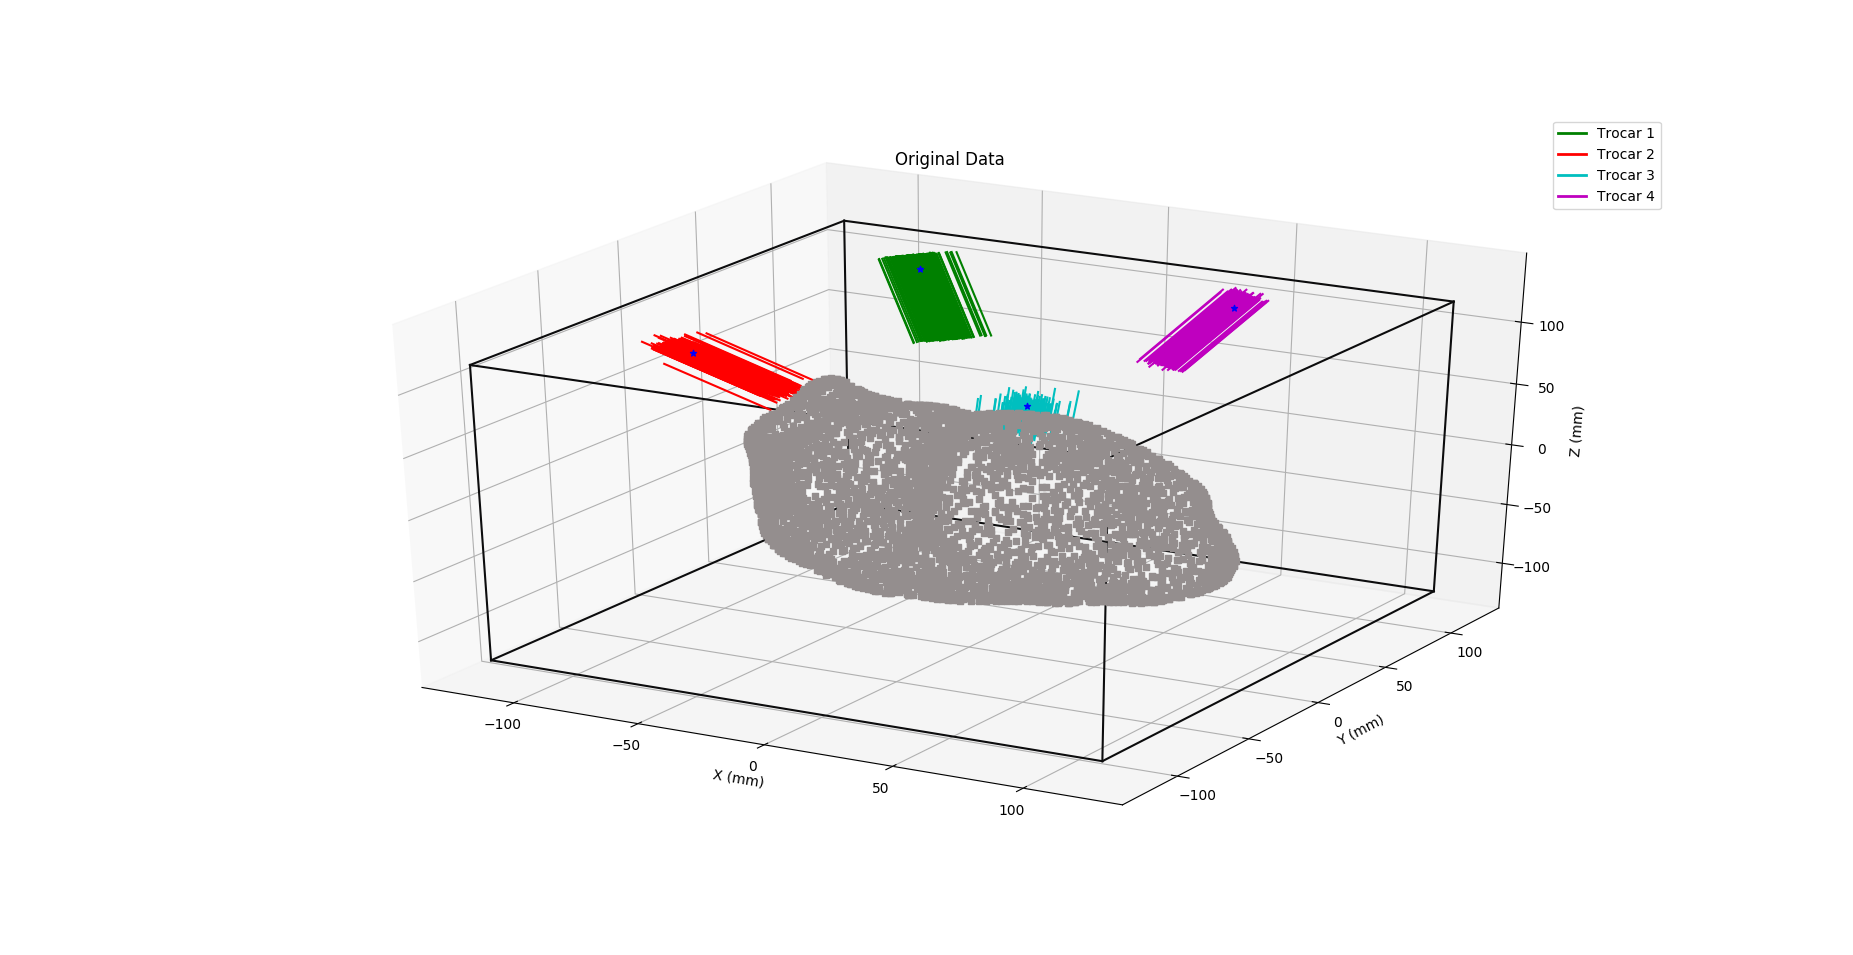
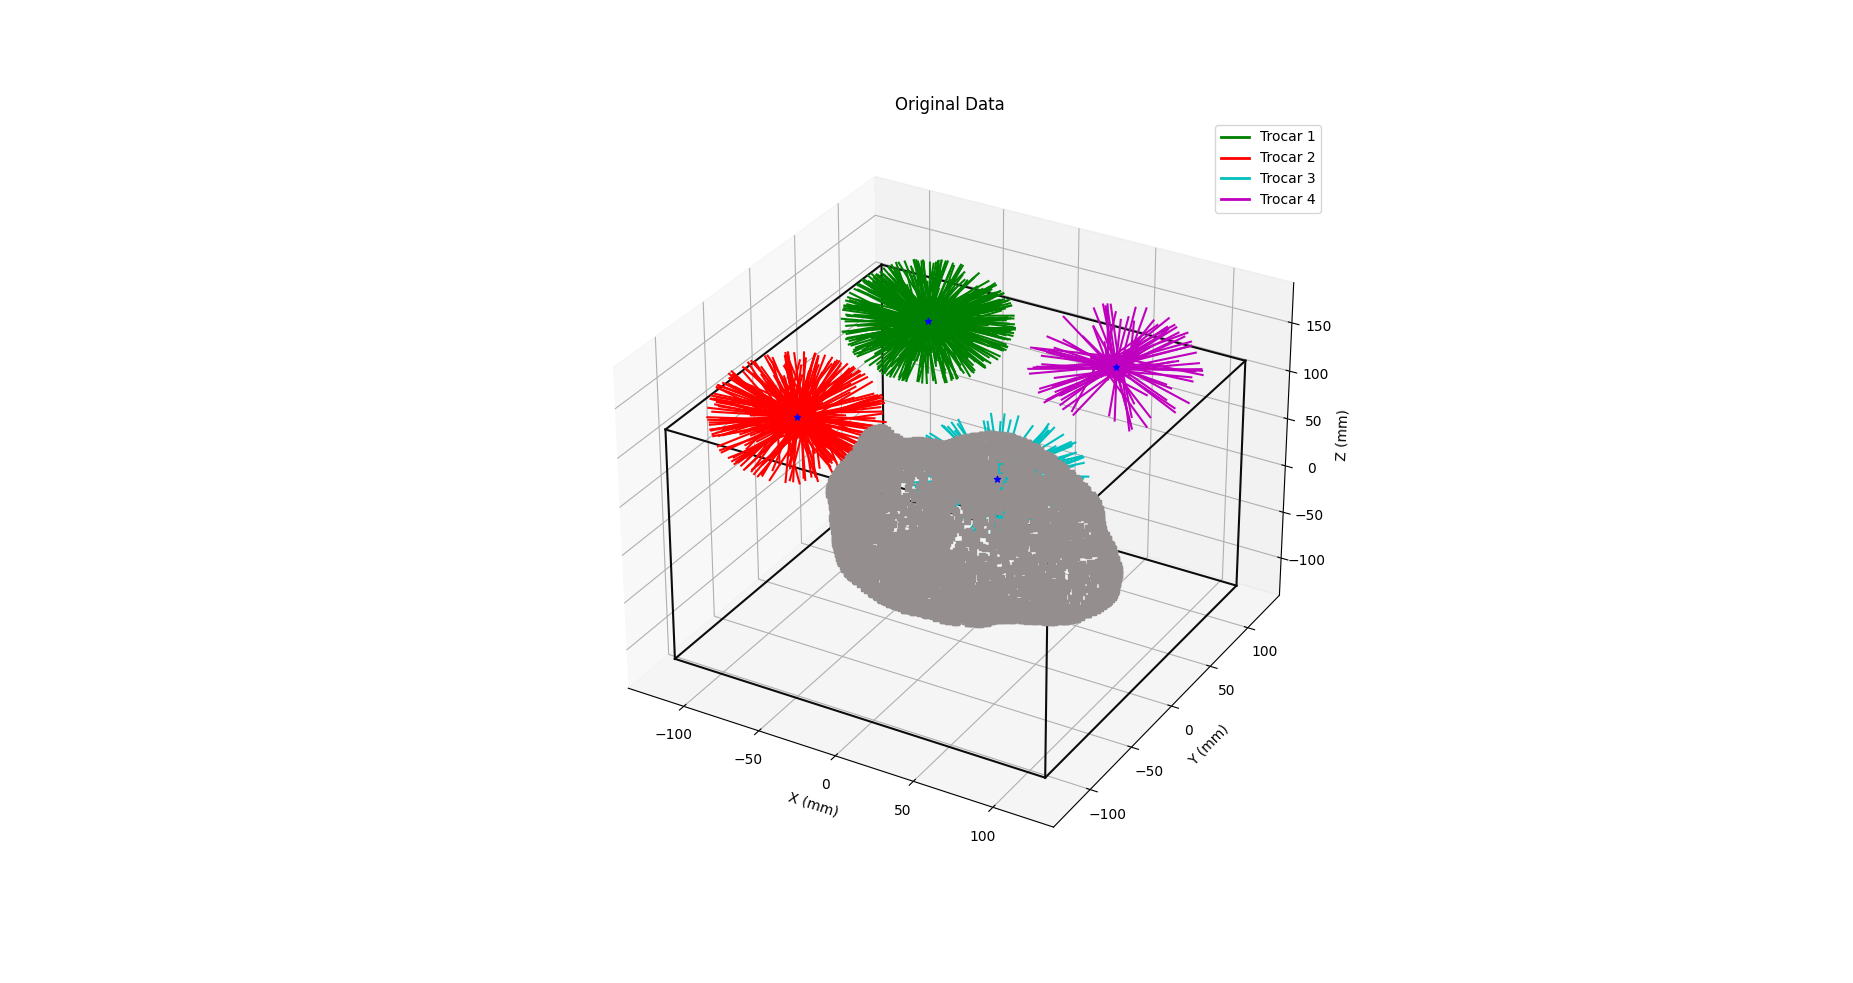
update generate data function

diff --git a/generate_data.py b/generate_data.py
@@ -32,21 +32,26 @@ def generate_data(N_lines, trocar, scale1 = 1, scale2 = 1, sigma = 5):
     Generate simulation data (data with noise follows Gaussian distribution)
     """
 
-    # Get normal vector of plane which contains all points will be generated
-    n_vect = trocar-liver
-    unit_vect = n_vect/np.linalg.norm(n_vect) #convert to unit vect
+    # Generate direction unit vector for all lines
 
+    vect_rand = np.zeros((N_lines,3),dtype=np.float32)
+    
+    for i in range(N_lines):
+
+        vect_rand[i] = random_unit_vector()
+    
     # Get direction vectors for intersection points
     u = np.zeros((N_lines,3),dtype=np.float32)    
 
-    u1 = np.array([unit_vect[1], -unit_vect[0], 0]) #an unit vector perpendicular to the normal vect
-    u2 = np.array([unit_vect[2], 0, -unit_vect[0]])
+    for i in range(N_lines):
+        u[i] = np.array([vect_rand[i,1], -vect_rand[i,0], 0])
 
-    coef = np.random.normal(0,100,(N_lines,2))
 
-    for i in range(u.shape[0]):
-        u[i] = coef[i,0]*u1 + coef[i,1]*u2
-        u[i] = u[i]/np.linalg.norm(u[i])
+    # coef = np.random.normal(0,100,(N_lines,2))
+
+    # for i in range(u.shape[0]):
+    #     u[i] = coef[i,0]*u1 + coef[i,1]*u2
+    #     u[i] = u[i]/np.linalg.norm(u[i])
 
     # Noisy data is defined based on the distance from the trocar. d ~ N(0,std_noise)
     d = np.random.normal(0,sigma,N_lines)
@@ -57,12 +62,12 @@ def generate_data(N_lines, trocar, scale1 = 1, scale2 = 1, sigma = 5):
     for i in range(pts.shape[0]):
         pts[i] = d[i]*u[i] + trocar
 
-    unit_vect_stack = np.tile(unit_vect,[N_lines,1]).astype(np.float32)
+    # unit_vect_stack = np.tile(unit_vect,[N_lines,1]).astype(np.float32)
 
-    vect_start = pts - scale1*scale2*unit_vect_stack
-    vect_end = pts + scale1*unit_vect_stack
+    vect_start = pts - scale1*scale2*vect_rand
+    vect_end = pts + scale1*vect_rand
 
-    return vect_end, vect_start, trocar, unit_vect_stack
+    return vect_end, vect_start, trocar, vect_rand
 
 def generate_incorrect_data(N_lines, trocar, scale1 = 1, scale2 = 1, sigma = 5, upper_bound = 150):
 
@@ -70,21 +75,20 @@ def generate_incorrect_data(N_lines, trocar, scale1 = 1, scale2 = 1, sigma = 5, 
     Generate incorrect data (uniform distribution)
     """
 
-    # Get normal vector of plane which contains all points will be generated
-    n_vect = trocar-liver
-    unit_vect = n_vect/np.linalg.norm(n_vect) #convert to unit vect
+    # Generate direction unit vector for all lines
 
+    vect_rand = np.zeros((N_lines,3),dtype=np.float32)
+    
+    for i in range(N_lines):
+
+        vect_rand[i] = random_unit_vector()
+    
     # Get direction vectors for intersection points
     u = np.zeros((N_lines,3),dtype=np.float32)    
 
-    u1 = np.array([unit_vect[1], -unit_vect[0], 0]) #an unit vector perpendicular to the normal vect
-    u2 = np.array([unit_vect[2], 0, -unit_vect[0]])
+    for i in range(N_lines):
+        u[i] = np.array([vect_rand[i,1], -vect_rand[i,0], 0])
 
-    coef = np.random.normal(0,100,(N_lines,2))
-
-    for i in range(u.shape[0]):
-        u[i] = coef[i,0]*u1 + coef[i,1]*u2
-        u[i] = u[i]/np.linalg.norm(u[i])
     # Incorrect data is defined based on the distance from the trocar. d ~ U(sigma,upperbound - depends on the scene)
     d = np.random.uniform(1.96*sigma,upper_bound,N_lines)
 
@@ -94,12 +98,12 @@ def generate_incorrect_data(N_lines, trocar, scale1 = 1, scale2 = 1, sigma = 5, 
     for i in range(pts.shape[0]):
         pts[i] = d[i]*u[i] + trocar
 
-    unit_vect_stack = np.tile(unit_vect,[N_lines,1]).astype(np.float32)
+    # unit_vect_stack = np.tile(unit_vect,[N_lines,1]).astype(np.float32)
 
-    vect_start = pts - scale1*scale2*unit_vect_stack
-    vect_end = pts + scale1*unit_vect_stack
+    vect_start = pts - scale1*scale2*vect_rand
+    vect_end = pts + scale1*vect_rand
 
-    return vect_end, vect_start, trocar, unit_vect_stack
+    return vect_end, vect_start, trocar, vect_rand
 
 def generate_perfect_data(N_lines, trocar,scale1 = 1, scale2 = 1):
 
